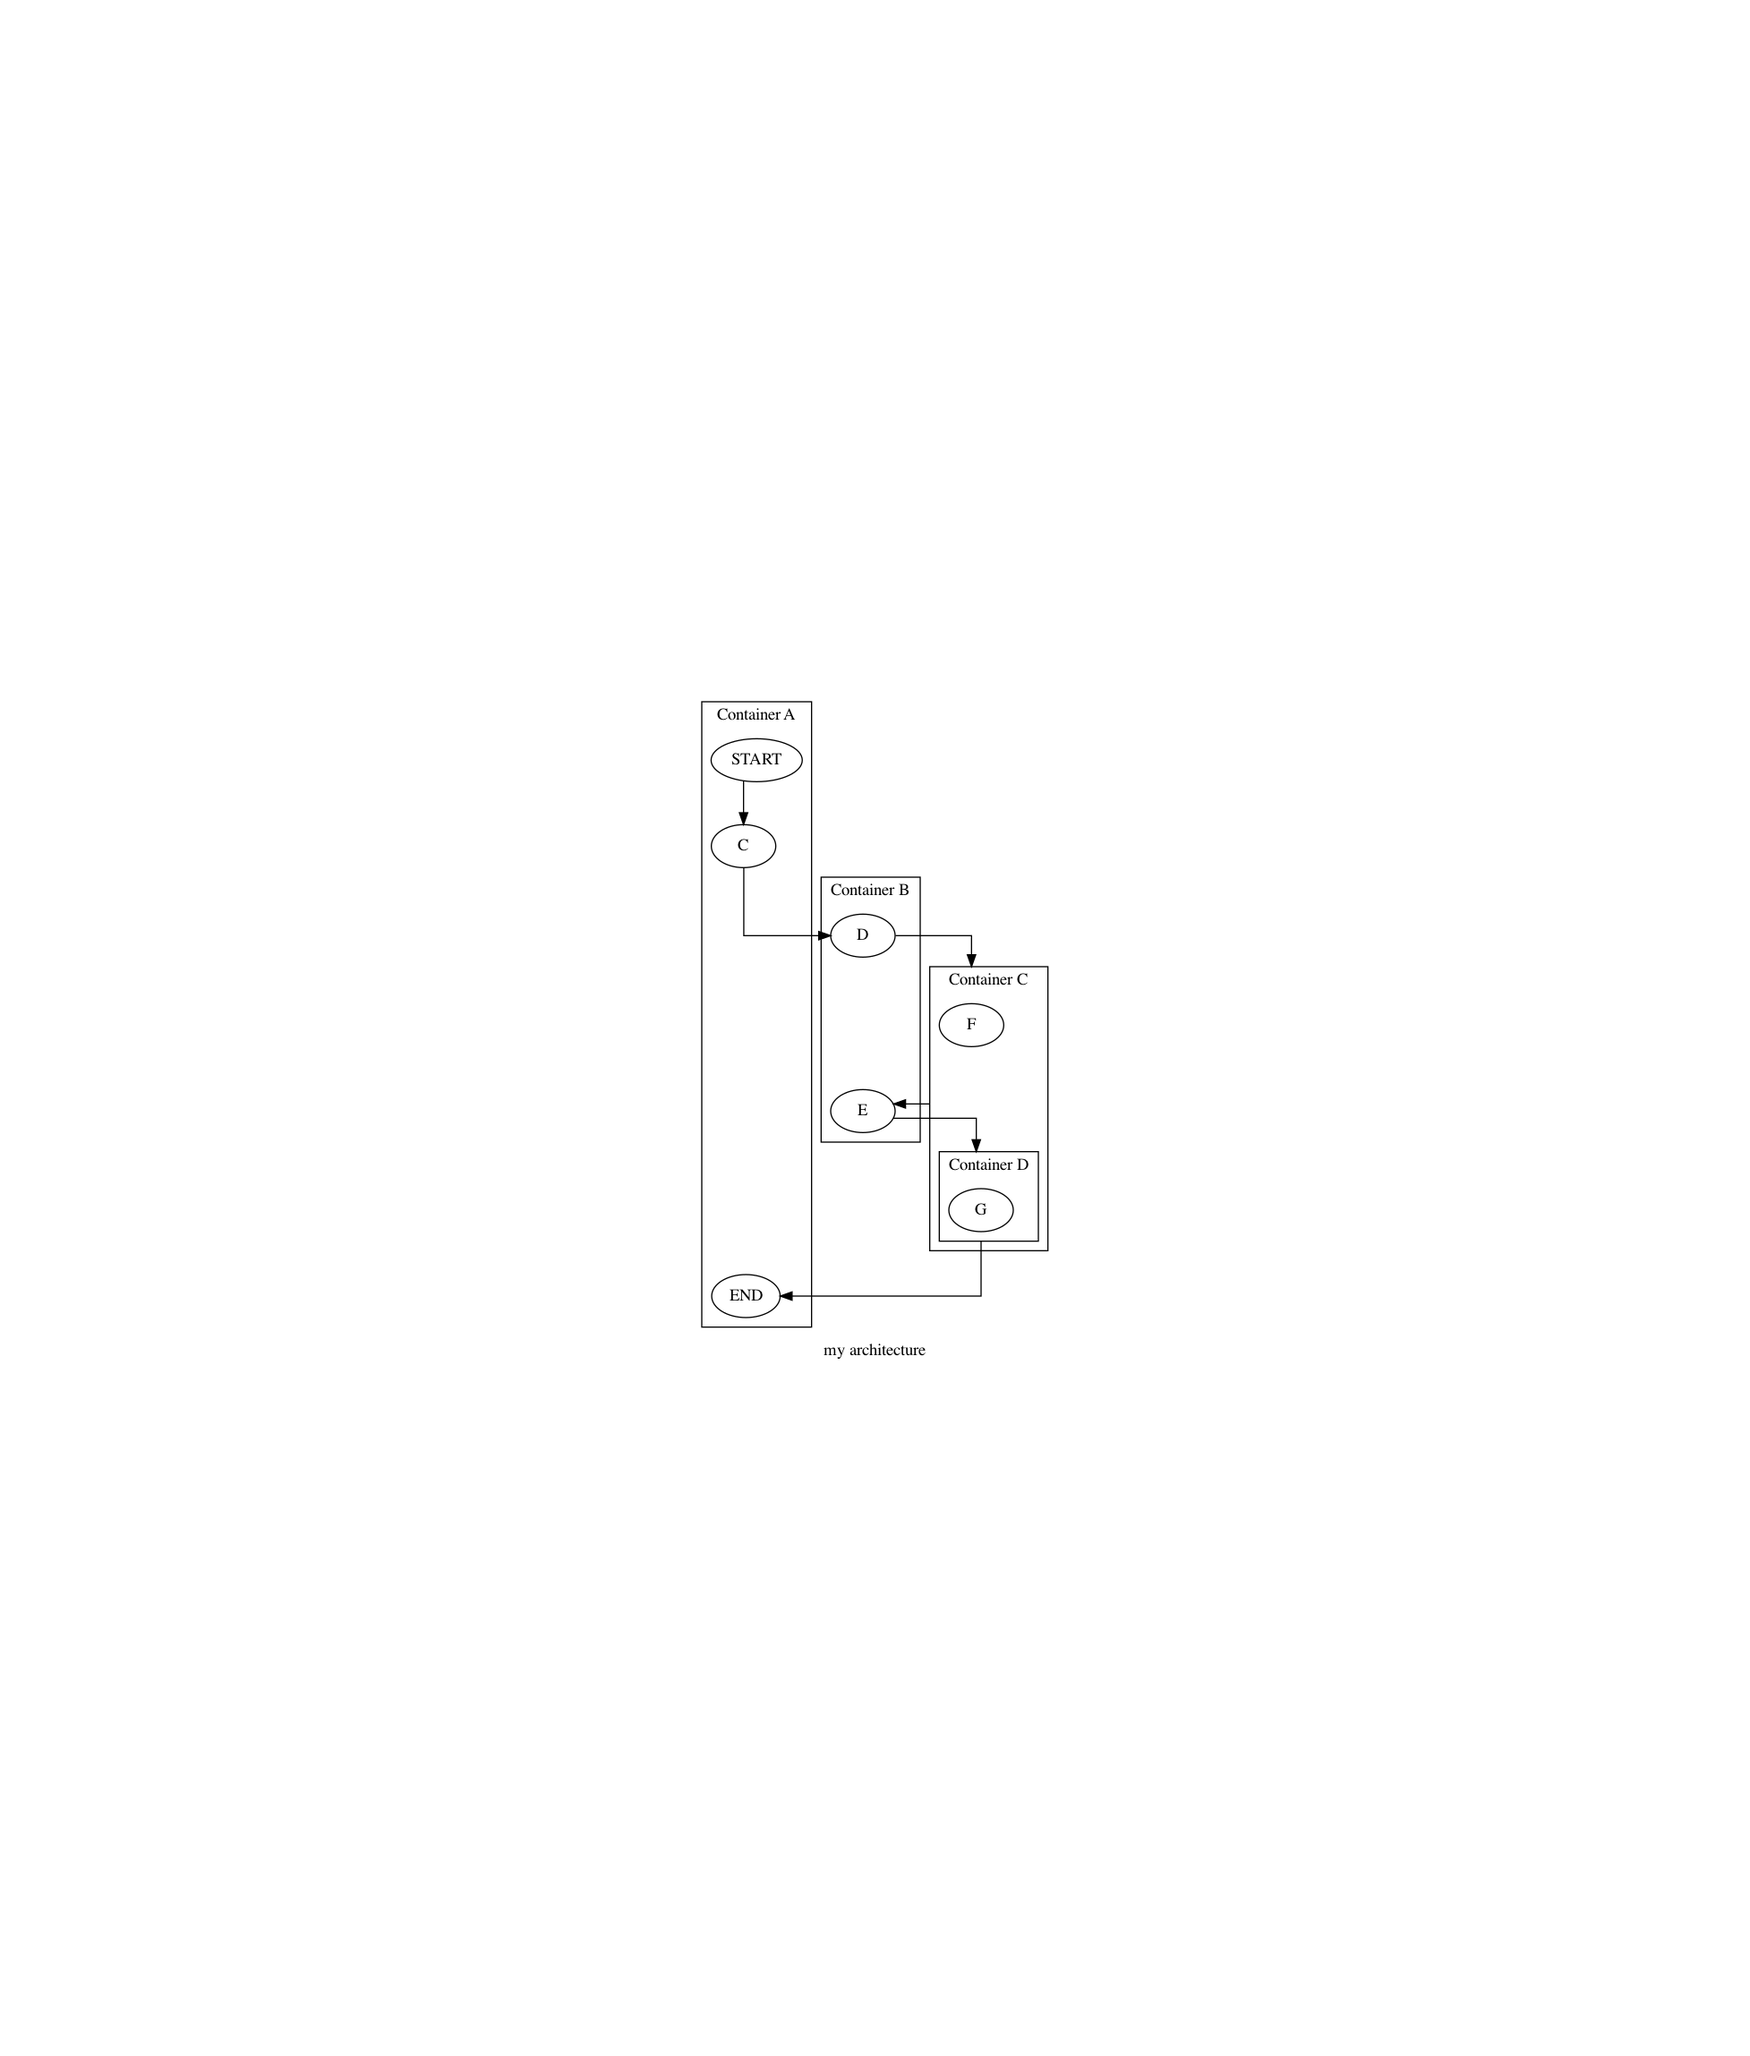
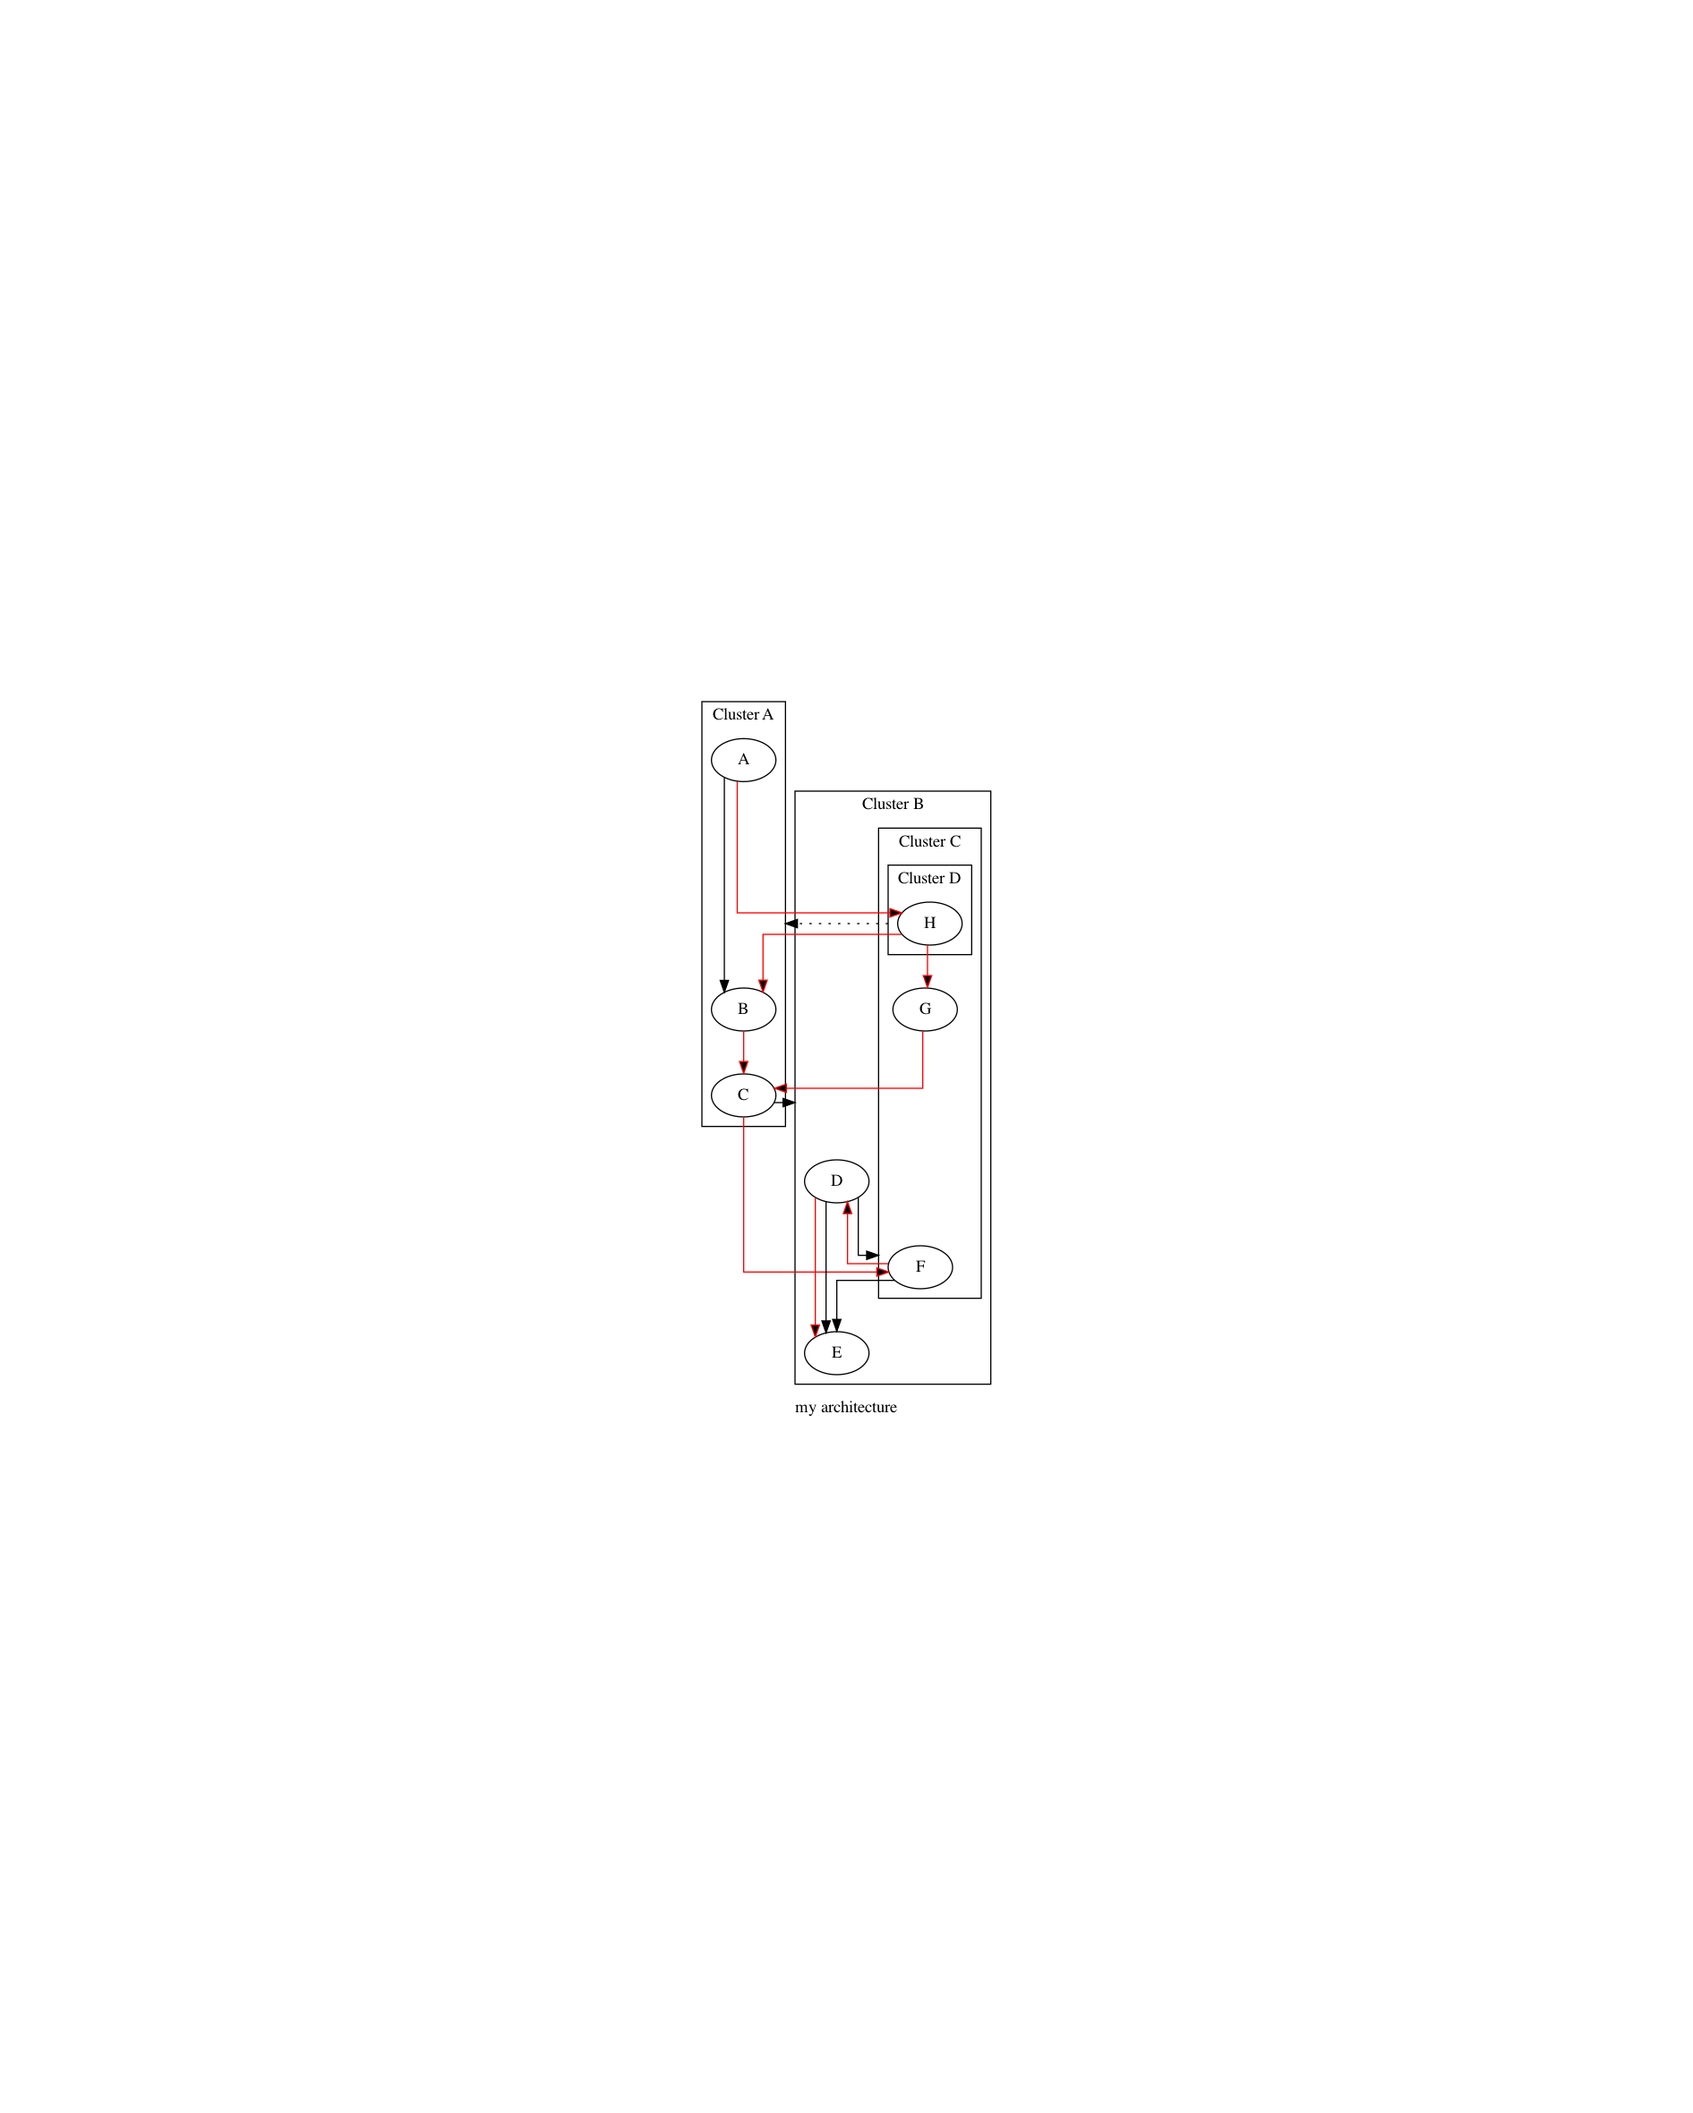
updated examples

Changed region(s): [[0.4056, 0.34, 0.5928, 0.68]]

diff --git a/examples/base.py b/examples/base.py
@@ -1,22 +1,42 @@
 from architectures.core import Graph, Cluster, Group, Node, Edge, Flow
-from architectures.themes import Default
+from architectures.themes import Default, LightMode
 
 theme = Default(graph_attr_overrides={"splines": "ortho"})
 
 with Graph("my architecture", theme=theme, show=True):
-    with Cluster("Container A") as container_a:
-        a = Node("END")
-        b = Node("START")
+    with Cluster("Cluster A") as cluster_a:
+        a = Node("A")
+        b = Node("B")
         c = Node("C")
 
-    with Cluster("Container B") as container_b:
+    with Cluster("Cluster B") as cluster_b:
         d = Node("D")
         e = Node("E")
 
-    with Cluster("Container C") as container_c:
-        f = Node("F")
-
-        with Cluster("Container D") as container_d:
+        with Cluster("Cluster C") as cluster_c:
+            f = Node("F")
             g = Node("G")
 
-    Flow([b, c, d, container_c, e, container_d, a])
+            with Cluster("Cluster D") as cluster_d:
+                h = Node("H")
+
+    # With Edges you can connect...
+
+    # Nodes to nodes
+    Edge(a, b)
+
+    # Nodes to clusters
+    Edge(c, cluster_b)
+
+    # Clusters to clusters
+    Edge(cluster_d, cluster_a, style="dotted")
+
+    # Lists of nodes or clusters to lists of nodes or clusters
+    Edge([d, f], [e, cluster_c])
+
+    # With Flows you can connect...
+
+    # Any list of nodes or clusters with support for nested lists
+    Flow([a, h, [b, g], c, f, d, e], color="red")
+
+    # All objects support keyword arguments to change the style
